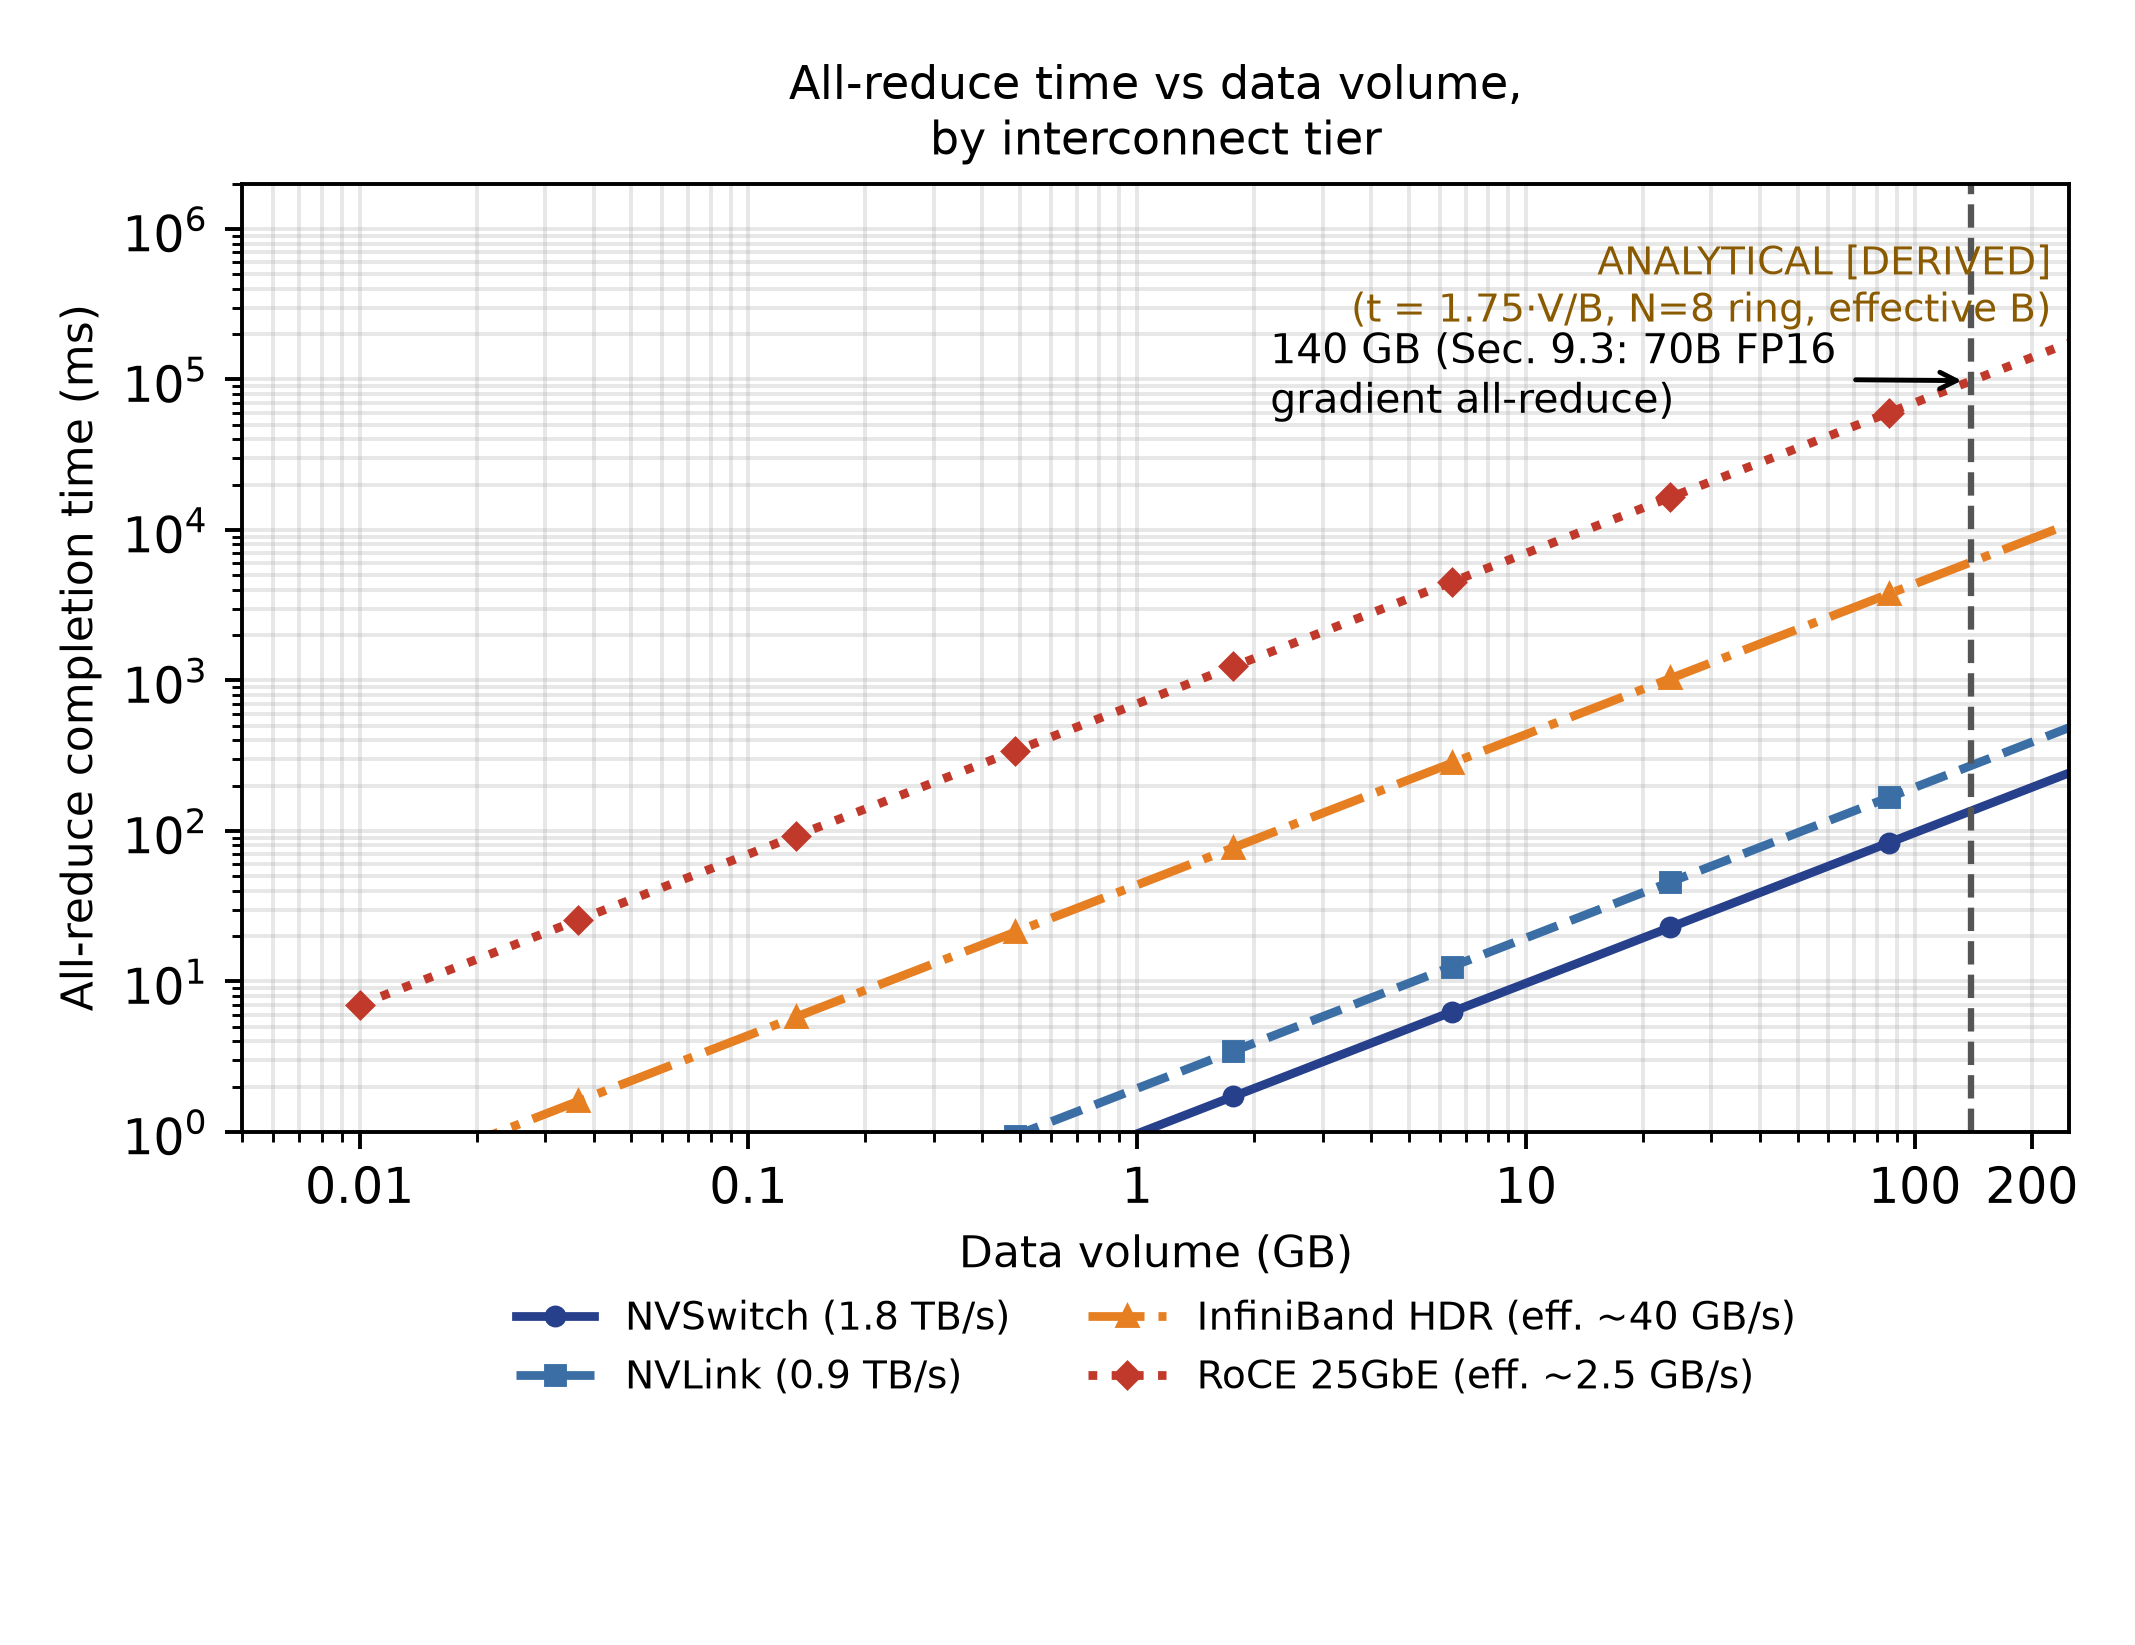
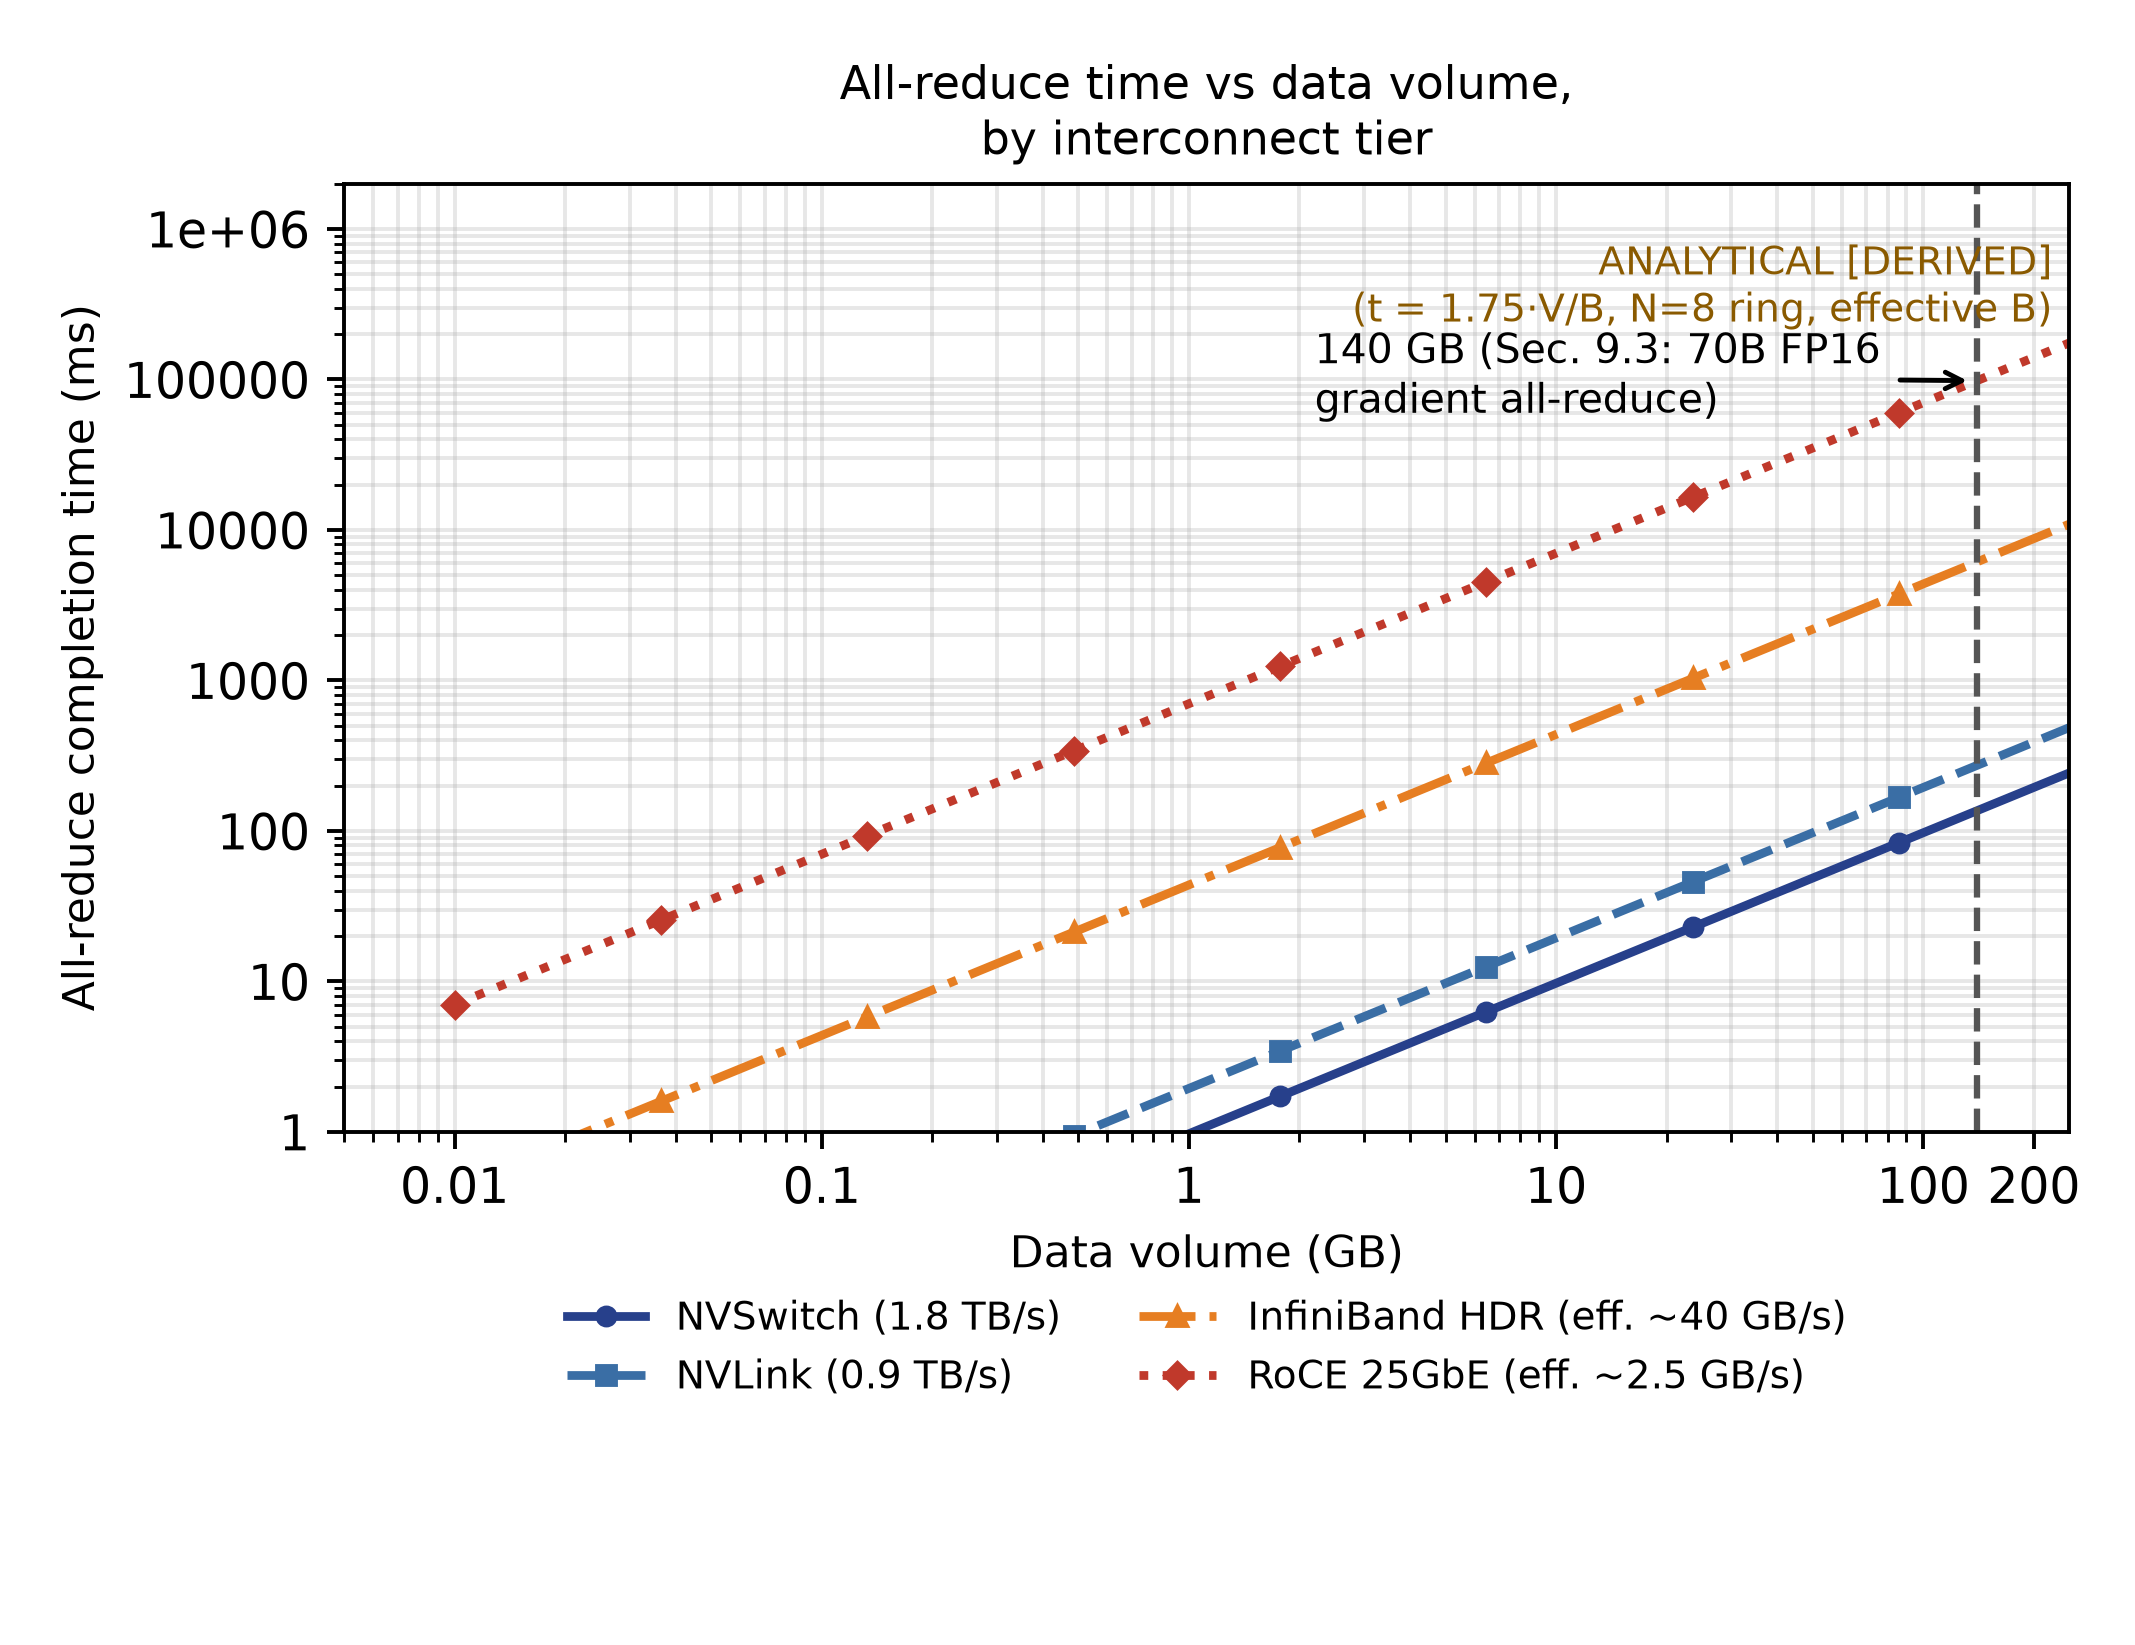
Loop2: Fig 7.2 red label to upper-left band (11.0pt off red curve, 9.4pt off rule), Fig 7.3 annotation 15.7pt off spine, Fig 9.1 y-axis FuncFormatter (no superscripts, min 8.0pt) - all vision-verified

diff --git a/render/fig_ch7.py b/render/fig_ch7.py
@@ -34,7 +34,15 @@ ax.set_title('KV cache size vs context, by attention geometry (full-MHA vs GQA)'
 ax.axhline(640, color='#7f8c8d', ls=':', lw=1, label='8×H100 raw (640 GB)')
 ax.axhline(436, color='#27408b', ls='--', lw=1.5, label='KV budget ~436 GB')
 ax.scatter([9.2], [2.5*9.2], color='#c0392b', zorder=5, s=25)
-ax.annotate('9.2K ≈ 24 GB (FP16 bound)', xy=(9.2, 2.5*9.2), xytext=(10.2, 70),
+# Loop-2 review (N1): at xytext=(10.2, 70) the label sat just above the red
+# FP16 curve and its right end crossed the line (measured: 0.0 pt clearance,
+# arrow shaft 0.1 pt) - same-colour annotation-on-curve.  In log-log space the
+# red curve climbs 1 decade per decade, so a 122pt-wide label can only clear it
+# (and the 436 GB rule) by moving into the open upper-LEFT band, above every
+# curve and below the KV-budget rule.  Measured clearances: label 9.7 pt off the
+# red curve, 10.1 pt off the 436 GB rule, 19.1 pt inside the left frame; the
+# leader drops onto the 9.2K point from above and crosses no curve.
+ax.annotate('9.2K ≈ 24 GB (FP16 bound)', xy=(9.2, 2.5*9.2), xytext=(1.2, 107),
             arrowprops=dict(arrowstyle='->', lw=0.8), fontsize=8.5)
 ax.scatter([9.2], [0.33*9.2], color='#27408b', zorder=5, s=25)
 # v9 review: this tag sat ON the GQA FP16/FP8 markers at 9.2K and used the same
@@ -111,7 +119,11 @@ ax.text(1, 1255, 'full fine-tune exceeds an 8×H100 host:\nneeds multi-node or o
 # green annotation centered ABOVE the QLoRA bar (inside the plot, not past the
 # right border), with a white halo and an arrow down to the bar.  Raised to 300
 # so its shaft clears the relocated '~60 GB' tag (top ~242) with >9pt of air.
-ax.annotate('QLoRA fits a single H100', xy=(2, 64), xytext=(2.0, 300),
+# Loop-2 review: centred on x=2 the label's right edge (incl. its white halo)
+# came within 0.5 pt of the right spine - it read as clipping.  Inset to x=1.9
+# (still above the QLoRA bar, still 23 pt right of the red bar) for 13.3 pt of
+# halo clearance to the frame.
+ax.annotate('QLoRA fits a single H100', xy=(2, 64), xytext=(1.9, 300),
             fontsize=8.5, color='#3d6e35', ha='center',
             bbox=dict(boxstyle='round,pad=0.15', fc='white', ec='none', alpha=0.9),
             arrowprops=dict(arrowstyle='->', color='#3d6e35'))

diff --git a/render/fig_batch1.py b/render/fig_batch1.py
@@ -1,6 +1,7 @@
 import matplotlib
 matplotlib.use('Agg')
 import matplotlib.pyplot as plt
+import matplotlib.ticker as mticker
 import numpy as np
 import matplotlib as _mpl
 _mpl.rcParams['axes.formatter.use_mathtext']=False
@@ -87,6 +88,12 @@ ax.set_title('All-reduce time vs data volume,\nby interconnect tier', fontsize=9
 ax.text(0.99, 0.94, 'ANALYTICAL [DERIVED]\n(t = 1.75·V/B, N=8 ring, effective B)', transform=ax.transAxes,
         fontsize=8, color='#8a5a00', ha='right', va='top')
 ax.tick_params(labelsize=10)
+# Loop-2 review: the default log formatter draws the y tick exponents as
+# mathtext superscripts = 0.7 x 10pt = 7.0pt on page (sub-8pt floor).  Plain
+# decimal labels keep every glyph at the full 10pt tick size - same fix as
+# Fig 2.2 (render/fig_ch2_roofline.py).
+ax.yaxis.set_major_formatter(mticker.FuncFormatter(lambda v, p: '%g' % round(v)))
+ax.yaxis.set_minor_formatter(mticker.NullFormatter())
 # x-axis labelled tick covering the 140 GB weight-footprint reference
 ax.set_xticks([0.01, 0.1, 1, 10, 100, 200])
 ax.set_xticklabels(['0.01', '0.1', '1', '10', '100', '200'])
